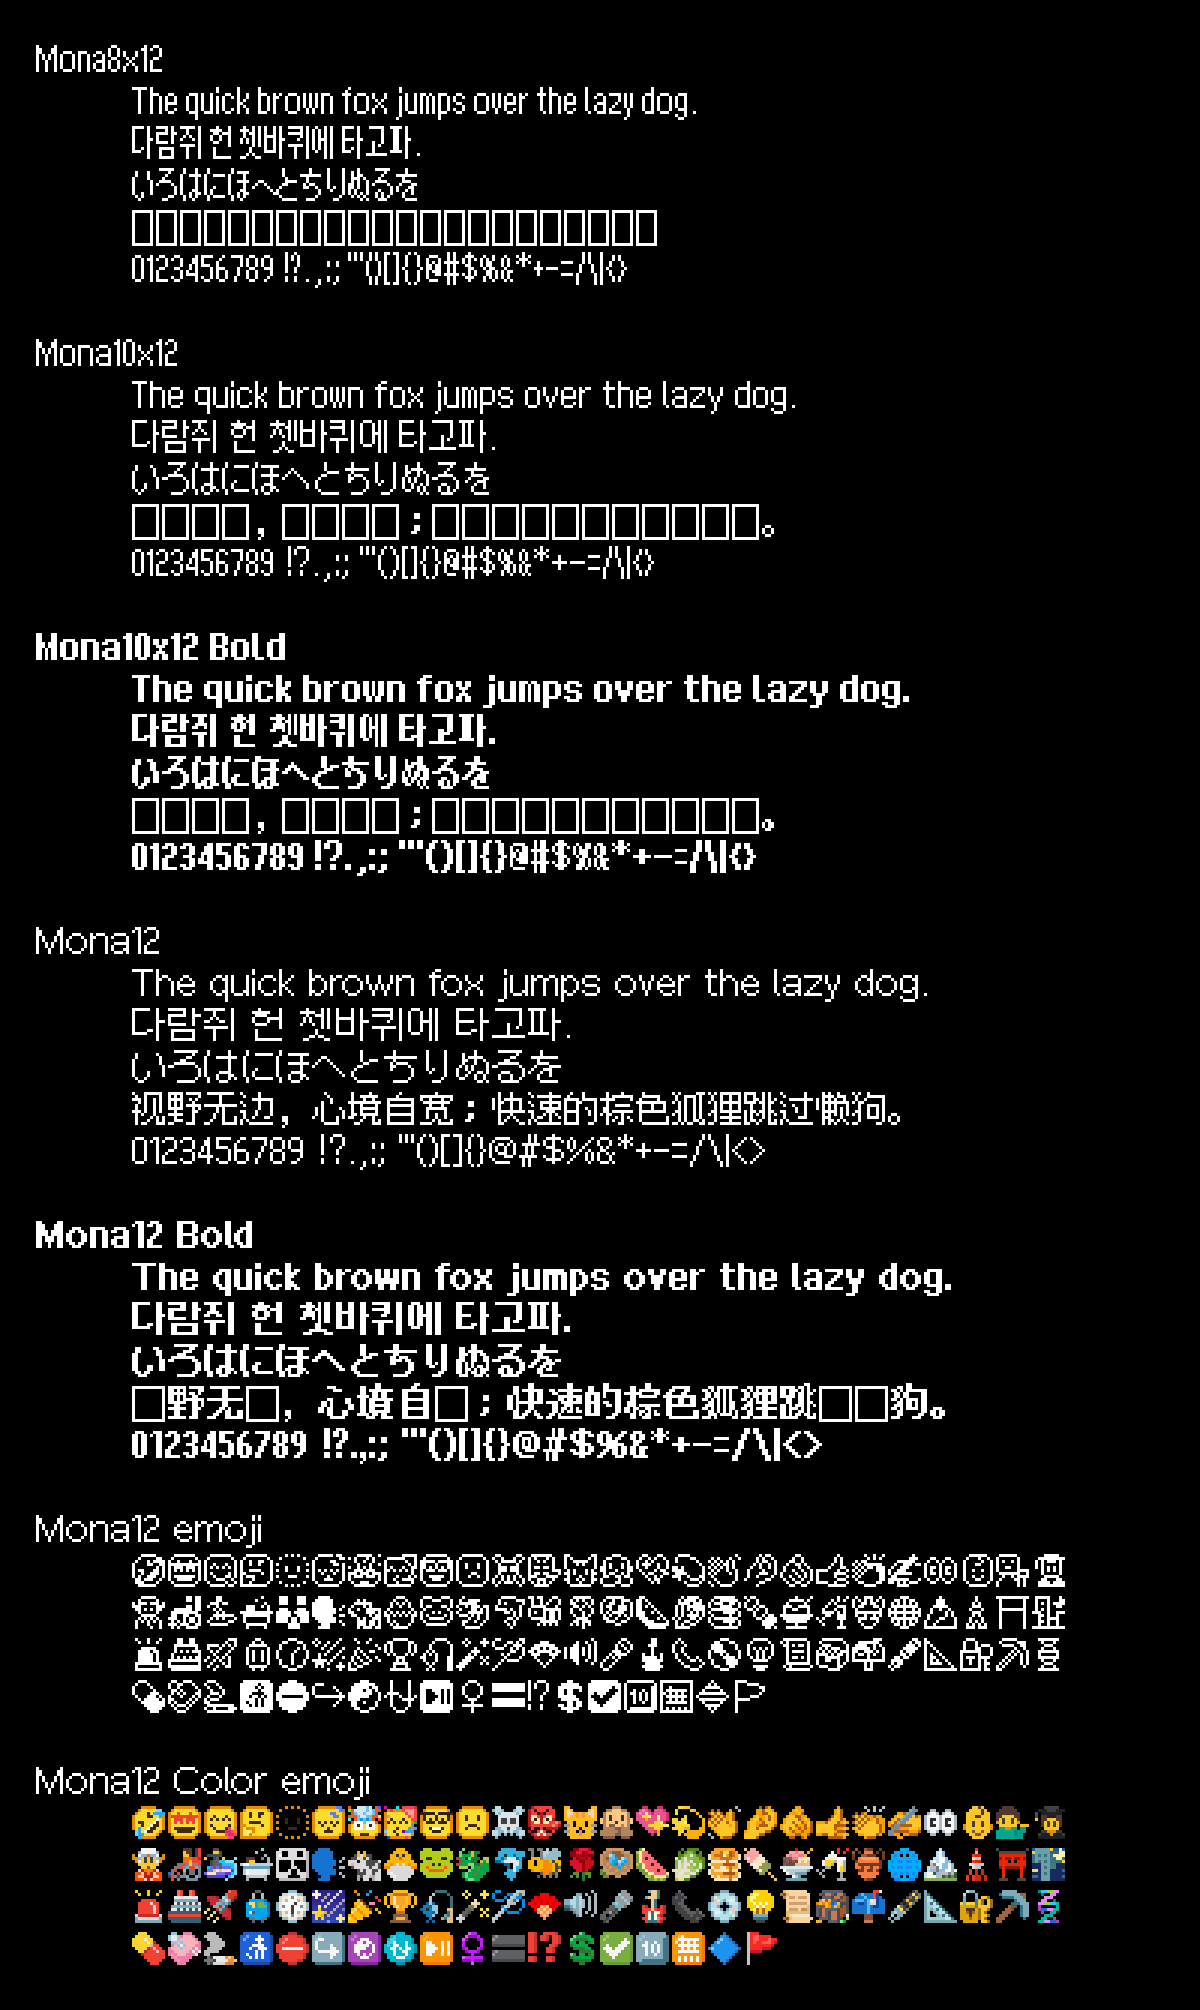
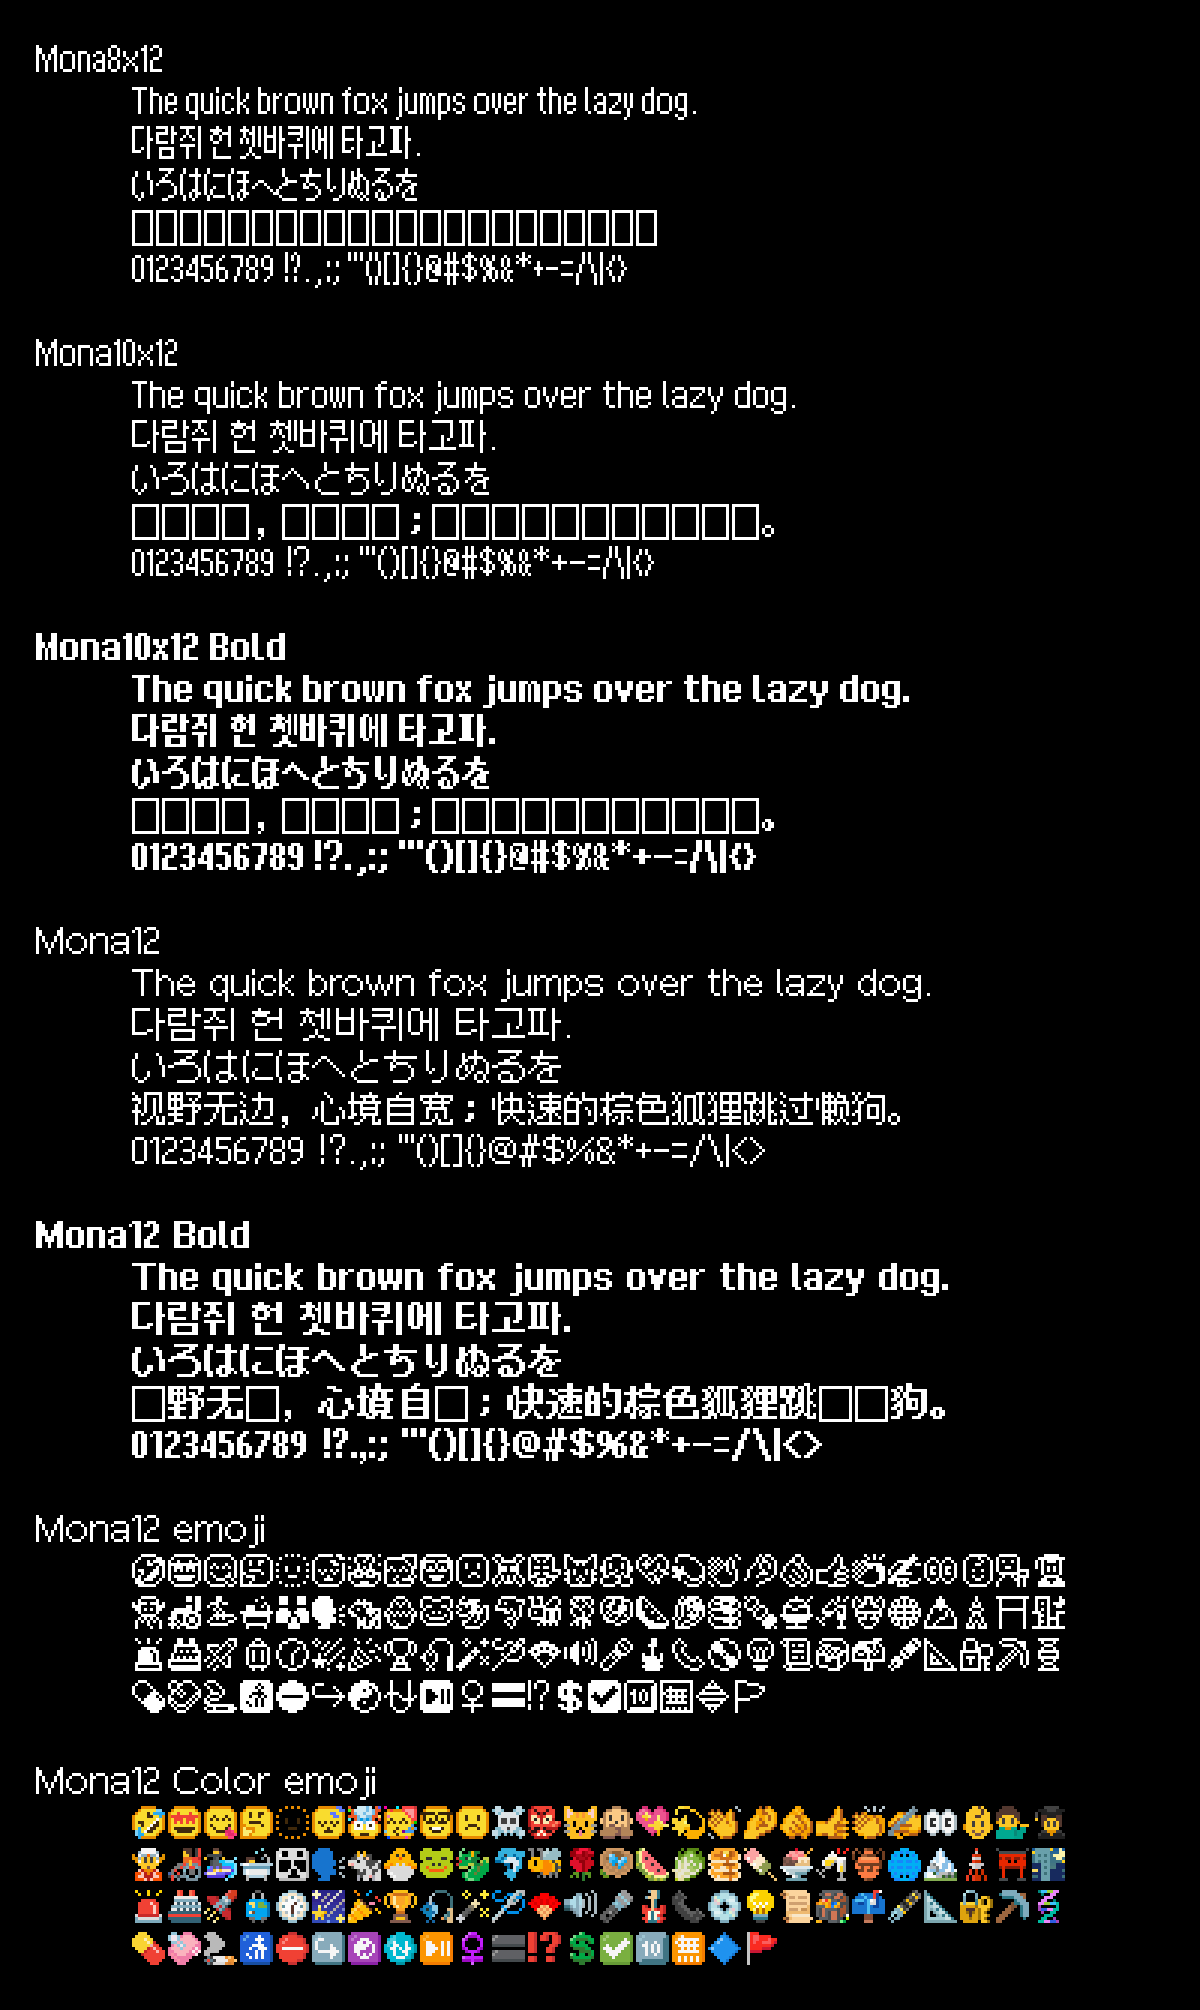
update

diff --git a/docs/GLYPHS.md b/docs/GLYPHS.md
@@ -2,20 +2,20 @@
 ### Summary
 | Font Name | Total Glyphs |
 | :--- | :---: |
-| **[Mona10 Regular](#mona10-regular)** | 21,603 |
-| **[Mona10 Bold](#mona10-bold)** | 21,603 |
-| **[Mona8x12 Regular](#mona8x12-regular)** | 13,142 |
-| **[Mona10x12 Regular](#mona10x12-regular)** | 15,243 |
-| **[Mona10x12 Bold](#mona10x12-bold)** | 15,243 |
-| **[Mona12 Regular](#mona12-regular)** | 39,343 |
-| **[Mona12 Bold](#mona12-bold)** | 21,650 |
+| **[Mona10 Regular](#mona10-regular)** | 21,604 |
+| **[Mona10 Bold](#mona10-bold)** | 21,604 |
+| **[Mona8x12 Regular](#mona8x12-regular)** | 13,143 |
+| **[Mona10x12 Regular](#mona10x12-regular)** | 15,244 |
+| **[Mona10x12 Bold](#mona10x12-bold)** | 15,244 |
+| **[Mona12 Regular](#mona12-regular)** | 39,803 |
+| **[Mona12 Bold](#mona12-bold)** | 21,651 |
 
 ---
 
 <a id='mona10-regular'></a>
 ## Mona10 Regular
 **File:** `Mona10.ttf`  
-**Total Glyphs:** `21,603`  
+**Total Glyphs:** `21,604`  
 
 | Block Name | Range | Count | Coverage | Progress |
 | :--- | :--- | :---: | :---: | :--- |
@@ -33,7 +33,7 @@
 | **Latin Extended Additional** | `U+1E00-U+1EFF` | 6 / 256 | **2.3%** | `░░░░░░░░░░` |
 | **General Punctuation** | `U+2000-U+206F` | 72 / 111 | **64.9%** | `██████░░░░` |
 | **Superscripts and Subscripts** | `U+2070-U+209F` | 42 / 42 | **100.0%** | `██████████` |
-| **Currency Symbols** | `U+20A0-U+20CF` | 34 / 33 | **100.0%** | `██████████` |
+| **Currency Symbols** | `U+20A0-U+20CF` | 34 / 34 | **100.0%** | `██████████` |
 | **Letterlike Symbols** | `U+2100-U+214F` | 10 / 80 | **12.5%** | `█░░░░░░░░░` |
 | **Number Forms** | `U+2150-U+218F` | 60 / 60 | **100.0%** | `██████████` |
 | **Arrows** | `U+2190-U+21FF` | 112 / 112 | **100.0%** | `██████████` |
@@ -57,6 +57,7 @@
 | **Hangul Jamo Extended-A** | `U+A960-U+A97F` | 29 / 29 | **100.0%** | `██████████` |
 | **Hangul Syllables** | `U+AC00-U+D7AF` | 11172 / 11172 | **100.0%** | `██████████` |
 | **Hangul Jamo Extended-B** | `U+D7B0-U+D7FF` | 72 / 72 | **100.0%** | `██████████` |
+| **Private Use Area** | `U+E000-U+F8FF` | 1 / 6400 | **0.0%** | `░░░░░░░░░░` |
 | **Alphabetic Presentation Forms** | `U+FB00-U+FB4F` | 5 / 58 | **8.6%** | `░░░░░░░░░░` |
 | **Vertical Forms** | `U+FE10-U+FE1F` | 10 / 10 | **100.0%** | `██████████` |
 | **CJK Compatibility Forms** | `U+FE30-U+FE4F` | 32 / 32 | **100.0%** | `██████████` |
@@ -69,7 +70,7 @@
 <a id='mona10-bold'></a>
 ## Mona10 Bold
 **File:** `Mona10-Bold.ttf`  
-**Total Glyphs:** `21,603`  
+**Total Glyphs:** `21,604`  
 
 | Block Name | Range | Count | Coverage | Progress |
 | :--- | :--- | :---: | :---: | :--- |
@@ -87,7 +88,7 @@
 | **Latin Extended Additional** | `U+1E00-U+1EFF` | 6 / 256 | **2.3%** | `░░░░░░░░░░` |
 | **General Punctuation** | `U+2000-U+206F` | 72 / 111 | **64.9%** | `██████░░░░` |
 | **Superscripts and Subscripts** | `U+2070-U+209F` | 42 / 42 | **100.0%** | `██████████` |
-| **Currency Symbols** | `U+20A0-U+20CF` | 34 / 33 | **100.0%** | `██████████` |
+| **Currency Symbols** | `U+20A0-U+20CF` | 34 / 34 | **100.0%** | `██████████` |
 | **Letterlike Symbols** | `U+2100-U+214F` | 10 / 80 | **12.5%** | `█░░░░░░░░░` |
 | **Number Forms** | `U+2150-U+218F` | 60 / 60 | **100.0%** | `██████████` |
 | **Arrows** | `U+2190-U+21FF` | 112 / 112 | **100.0%** | `██████████` |
@@ -111,6 +112,7 @@
 | **Hangul Jamo Extended-A** | `U+A960-U+A97F` | 29 / 29 | **100.0%** | `██████████` |
 | **Hangul Syllables** | `U+AC00-U+D7AF` | 11172 / 11172 | **100.0%** | `██████████` |
 | **Hangul Jamo Extended-B** | `U+D7B0-U+D7FF` | 72 / 72 | **100.0%** | `██████████` |
+| **Private Use Area** | `U+E000-U+F8FF` | 1 / 6400 | **0.0%** | `░░░░░░░░░░` |
 | **Alphabetic Presentation Forms** | `U+FB00-U+FB4F` | 5 / 58 | **8.6%** | `░░░░░░░░░░` |
 | **Vertical Forms** | `U+FE10-U+FE1F` | 10 / 10 | **100.0%** | `██████████` |
 | **CJK Compatibility Forms** | `U+FE30-U+FE4F` | 32 / 32 | **100.0%** | `██████████` |
@@ -123,7 +125,7 @@
 <a id='mona8x12-regular'></a>
 ## Mona8x12 Regular
 **File:** `Mona8x12.ttf`  
-**Total Glyphs:** `13,142`  
+**Total Glyphs:** `13,143`  
 
 | Block Name | Range | Count | Coverage | Progress |
 | :--- | :--- | :---: | :---: | :--- |
@@ -139,7 +141,7 @@
 | **Latin Extended Additional** | `U+1E00-U+1EFF` | 6 / 256 | **2.3%** | `░░░░░░░░░░` |
 | **General Punctuation** | `U+2000-U+206F` | 72 / 111 | **64.9%** | `██████░░░░` |
 | **Superscripts and Subscripts** | `U+2070-U+209F` | 42 / 42 | **100.0%** | `██████████` |
-| **Currency Symbols** | `U+20A0-U+20CF` | 34 / 33 | **100.0%** | `██████████` |
+| **Currency Symbols** | `U+20A0-U+20CF` | 34 / 34 | **100.0%** | `██████████` |
 | **Letterlike Symbols** | `U+2100-U+214F` | 10 / 80 | **12.5%** | `█░░░░░░░░░` |
 | **Number Forms** | `U+2150-U+218F` | 60 / 60 | **100.0%** | `██████████` |
 | **Braille Patterns** | `U+2800-U+28FF` | 256 / 256 | **100.0%** | `██████████` |
@@ -149,13 +151,14 @@
 | **Hangul Jamo Extended-A** | `U+A960-U+A97F` | 29 / 29 | **100.0%** | `██████████` |
 | **Hangul Syllables** | `U+AC00-U+D7AF` | 11172 / 11172 | **100.0%** | `██████████` |
 | **Hangul Jamo Extended-B** | `U+D7B0-U+D7FF` | 72 / 72 | **100.0%** | `██████████` |
+| **Private Use Area** | `U+E000-U+F8FF` | 1 / 6400 | **0.0%** | `░░░░░░░░░░` |
 
 ---
 
 <a id='mona10x12-regular'></a>
 ## Mona10x12 Regular
 **File:** `Mona10x12.ttf`  
-**Total Glyphs:** `15,243`  
+**Total Glyphs:** `15,244`  
 
 | Block Name | Range | Count | Coverage | Progress |
 | :--- | :--- | :---: | :---: | :--- |
@@ -173,7 +176,7 @@
 | **Latin Extended Additional** | `U+1E00-U+1EFF` | 6 / 256 | **2.3%** | `░░░░░░░░░░` |
 | **General Punctuation** | `U+2000-U+206F` | 72 / 111 | **64.9%** | `██████░░░░` |
 | **Superscripts and Subscripts** | `U+2070-U+209F` | 42 / 42 | **100.0%** | `██████████` |
-| **Currency Symbols** | `U+20A0-U+20CF` | 34 / 33 | **100.0%** | `██████████` |
+| **Currency Symbols** | `U+20A0-U+20CF` | 34 / 34 | **100.0%** | `██████████` |
 | **Letterlike Symbols** | `U+2100-U+214F` | 10 / 80 | **12.5%** | `█░░░░░░░░░` |
 | **Number Forms** | `U+2150-U+218F` | 60 / 60 | **100.0%** | `██████████` |
 | **Arrows** | `U+2190-U+21FF` | 112 / 112 | **100.0%** | `██████████` |
@@ -196,6 +199,7 @@
 | **Hangul Jamo Extended-A** | `U+A960-U+A97F` | 29 / 29 | **100.0%** | `██████████` |
 | **Hangul Syllables** | `U+AC00-U+D7AF` | 11172 / 11172 | **100.0%** | `██████████` |
 | **Hangul Jamo Extended-B** | `U+D7B0-U+D7FF` | 72 / 72 | **100.0%** | `██████████` |
+| **Private Use Area** | `U+E000-U+F8FF` | 1 / 6400 | **0.0%** | `░░░░░░░░░░` |
 | **Alphabetic Presentation Forms** | `U+FB00-U+FB4F` | 5 / 58 | **8.6%** | `░░░░░░░░░░` |
 | **Vertical Forms** | `U+FE10-U+FE1F` | 10 / 10 | **100.0%** | `██████████` |
 | **CJK Compatibility Forms** | `U+FE30-U+FE4F` | 32 / 32 | **100.0%** | `██████████` |
@@ -208,7 +212,7 @@
 <a id='mona10x12-bold'></a>
 ## Mona10x12 Bold
 **File:** `Mona10x12-Bold.ttf`  
-**Total Glyphs:** `15,243`  
+**Total Glyphs:** `15,244`  
 
 | Block Name | Range | Count | Coverage | Progress |
 | :--- | :--- | :---: | :---: | :--- |
@@ -226,7 +230,7 @@
 | **Latin Extended Additional** | `U+1E00-U+1EFF` | 6 / 256 | **2.3%** | `░░░░░░░░░░` |
 | **General Punctuation** | `U+2000-U+206F` | 72 / 111 | **64.9%** | `██████░░░░` |
 | **Superscripts and Subscripts** | `U+2070-U+209F` | 42 / 42 | **100.0%** | `██████████` |
-| **Currency Symbols** | `U+20A0-U+20CF` | 34 / 33 | **100.0%** | `██████████` |
+| **Currency Symbols** | `U+20A0-U+20CF` | 34 / 34 | **100.0%** | `██████████` |
 | **Letterlike Symbols** | `U+2100-U+214F` | 10 / 80 | **12.5%** | `█░░░░░░░░░` |
 | **Number Forms** | `U+2150-U+218F` | 60 / 60 | **100.0%** | `██████████` |
 | **Arrows** | `U+2190-U+21FF` | 112 / 112 | **100.0%** | `██████████` |
@@ -249,6 +253,7 @@
 | **Hangul Jamo Extended-A** | `U+A960-U+A97F` | 29 / 29 | **100.0%** | `██████████` |
 | **Hangul Syllables** | `U+AC00-U+D7AF` | 11172 / 11172 | **100.0%** | `██████████` |
 | **Hangul Jamo Extended-B** | `U+D7B0-U+D7FF` | 72 / 72 | **100.0%** | `██████████` |
+| **Private Use Area** | `U+E000-U+F8FF` | 1 / 6400 | **0.0%** | `░░░░░░░░░░` |
 | **Alphabetic Presentation Forms** | `U+FB00-U+FB4F` | 5 / 58 | **8.6%** | `░░░░░░░░░░` |
 | **Vertical Forms** | `U+FE10-U+FE1F` | 10 / 10 | **100.0%** | `██████████` |
 | **CJK Compatibility Forms** | `U+FE30-U+FE4F` | 32 / 32 | **100.0%** | `██████████` |
@@ -261,7 +266,7 @@
 <a id='mona12-regular'></a>
 ## Mona12 Regular
 **File:** `Mona12.ttf`  
-**Total Glyphs:** `39,343`  
+**Total Glyphs:** `39,803`  
 
 | Block Name | Range | Count | Coverage | Progress |
 | :--- | :--- | :---: | :---: | :--- |
@@ -279,7 +284,7 @@
 | **Latin Extended Additional** | `U+1E00-U+1EFF` | 6 / 256 | **2.3%** | `░░░░░░░░░░` |
 | **General Punctuation** | `U+2000-U+206F` | 72 / 111 | **64.9%** | `██████░░░░` |
 | **Superscripts and Subscripts** | `U+2070-U+209F` | 42 / 42 | **100.0%** | `██████████` |
-| **Currency Symbols** | `U+20A0-U+20CF` | 34 / 33 | **100.0%** | `██████████` |
+| **Currency Symbols** | `U+20A0-U+20CF` | 34 / 34 | **100.0%** | `██████████` |
 | **Combining Diacritical Marks for Symbols** | `U+20D0-U+20FF` | 6 / 33 | **18.2%** | `█░░░░░░░░░` |
 | **Letterlike Symbols** | `U+2100-U+214F` | 10 / 80 | **12.5%** | `█░░░░░░░░░` |
 | **Number Forms** | `U+2150-U+218F` | 60 / 60 | **100.0%** | `██████████` |
@@ -295,7 +300,7 @@
 | **Supplemental Arrows-A** | `U+27F0-U+27FF` | 16 / 16 | **100.0%** | `██████████` |
 | **Braille Patterns** | `U+2800-U+28FF` | 256 / 256 | **100.0%** | `██████████` |
 | **Supplemental Arrows-B** | `U+2900-U+297F` | 128 / 128 | **100.0%** | `██████████` |
-| **Miscellaneous Symbols and Arrows** | `U+2B00-U+2BFF` | 254 / 253 | **100.0%** | `██████████` |
+| **Miscellaneous Symbols and Arrows** | `U+2B00-U+2BFF` | 254 / 254 | **100.0%** | `██████████` |
 | **Supplemental Punctuation** | `U+2E00-U+2E7F` | 2 / 94 | **2.1%** | `░░░░░░░░░░` |
 | **Ideographic Description Characters** | `U+2FF0-U+2FFF` | 16 / 16 | **100.0%** | `██████████` |
 | **CJK Symbols and Punctuation** | `U+3000-U+303F` | 35 / 64 | **54.7%** | `█████░░░░░` |
@@ -305,9 +310,9 @@
 | **CJK Strokes** | `U+31C0-U+31EF` | 1 / 39 | **2.6%** | `░░░░░░░░░░` |
 | **Enclosed CJK Letters and Months** | `U+3200-U+32FF` | 255 / 255 | **100.0%** | `██████████` |
 | **CJK Compatibility** | `U+3300-U+33FF` | 46 / 256 | **18.0%** | `█░░░░░░░░░` |
-| **CJK Unified Ideographs Extension A** | `U+3400-U+4DBF` | 1271 / 6592 | **19.3%** | `█░░░░░░░░░` |
+| **CJK Unified Ideographs Extension A** | `U+3400-U+4DBF` | 1480 / 6592 | **22.5%** | `██░░░░░░░░` |
 | **Yijing Hexagram Symbols** | `U+4DC0-U+4DFF` | 64 / 64 | **100.0%** | `██████████` |
-| **CJK Unified Ideographs** | `U+4E00-U+9FFF` | 18915 / 20992 | **90.1%** | `█████████░` |
+| **CJK Unified Ideographs** | `U+4E00-U+9FFF` | 18972 / 20992 | **90.4%** | `█████████░` |
 | **Hangul Jamo Extended-A** | `U+A960-U+A97F` | 29 / 29 | **100.0%** | `██████████` |
 | **Hangul Syllables** | `U+AC00-U+D7AF` | 11172 / 11172 | **100.0%** | `██████████` |
 | **Hangul Jamo Extended-B** | `U+D7B0-U+D7FF` | 72 / 72 | **100.0%** | `██████████` |
@@ -327,16 +332,16 @@
 | **Enclosed Ideographic Supplement** | `U+1F200-U+1F2FF` | 15 / 64 | **23.4%** | `██░░░░░░░░` |
 | **Miscellaneous Symbols and Pictographs** | `U+1F300-U+1F5FF` | 768 / 768 | **100.0%** | `██████████` |
 | **Emoticons** | `U+1F600-U+1F64F` | 80 / 80 | **100.0%** | `██████████` |
-| **Transport and Map Symbols** | `U+1F680-U+1F6FF` | 119 / 118 | **100.0%** | `██████████` |
+| **Transport and Map Symbols** | `U+1F680-U+1F6FF` | 119 / 119 | **100.0%** | `██████████` |
 | **Geometric Shapes Extended** | `U+1F780-U+1F7FF` | 17 / 103 | **16.5%** | `█░░░░░░░░░` |
-| **Supplemental Arrows-C** | `U+1F800-U+1F8FF` | 171 / 162 | **100.0%** | `██████████` |
+| **Supplemental Arrows-C** | `U+1F800-U+1F8FF` | 171 / 171 | **100.0%** | `██████████` |
 | **Supplemental Symbols and Pictographs** | `U+1F900-U+1F9FF` | 256 / 256 | **100.0%** | `██████████` |
-| **Symbols and Pictographs Extended-A** | `U+1FA70-U+1FAFF` | 120 / 114 | **100.0%** | `██████████` |
-| **Symbols for Legacy Computing** | `U+1FB00-U+1FBFF` | 250 / 249 | **100.0%** | `██████████` |
-| **CJK Unified Ideographs Extension B** | `U+20000-U+2A6DF` | 966 / 42720 | **2.3%** | `░░░░░░░░░░` |
-| **CJK Unified Ideographs Extension C** | `U+2A700-U+2B73F` | 32 / 4154 | **0.8%** | `░░░░░░░░░░` |
-| **CJK Unified Ideographs Extension D** | `U+2B740-U+2B81F` | 9 / 222 | **4.1%** | `░░░░░░░░░░` |
-| **CJK Unified Ideographs Extension E** | `U+2B820-U+2CEAF` | 31 / 5762 | **0.5%** | `░░░░░░░░░░` |
+| **Symbols and Pictographs Extended-A** | `U+1FA70-U+1FAFF` | 120 / 120 | **100.0%** | `██████████` |
+| **Symbols for Legacy Computing** | `U+1FB00-U+1FBFF` | 250 / 250 | **100.0%** | `██████████` |
+| **CJK Unified Ideographs Extension B** | `U+20000-U+2A6DF` | 1146 / 42720 | **2.7%** | `░░░░░░░░░░` |
+| **CJK Unified Ideographs Extension C** | `U+2A700-U+2B73F` | 36 / 4160 | **0.9%** | `░░░░░░░░░░` |
+| **CJK Unified Ideographs Extension D** | `U+2B740-U+2B81F` | 11 / 222 | **5.0%** | `░░░░░░░░░░` |
+| **CJK Unified Ideographs Extension E** | `U+2B820-U+2CEAF` | 39 / 5774 | **0.7%** | `░░░░░░░░░░` |
 | **CJK Unified Ideographs Extension F** | `U+2CEB0-U+2EBEF` | 4 / 7473 | **0.1%** | `░░░░░░░░░░` |
 | **CJK Unified Ideographs Extension G** | `U+30000-U+3134F` | 6 / 4939 | **0.1%** | `░░░░░░░░░░` |
 | **Tags** | `U+E0000-U+E007F` | 10 / 97 | **10.3%** | `█░░░░░░░░░` |
@@ -347,7 +352,7 @@
 <a id='mona12-bold'></a>
 ## Mona12 Bold
 **File:** `Mona12-Bold.ttf`  
-**Total Glyphs:** `21,650`  
+**Total Glyphs:** `21,651`  
 
 | Block Name | Range | Count | Coverage | Progress |
 | :--- | :--- | :---: | :---: | :--- |
@@ -365,7 +370,7 @@
 | **Latin Extended Additional** | `U+1E00-U+1EFF` | 6 / 256 | **2.3%** | `░░░░░░░░░░` |
 | **General Punctuation** | `U+2000-U+206F` | 72 / 111 | **64.9%** | `██████░░░░` |
 | **Superscripts and Subscripts** | `U+2070-U+209F` | 42 / 42 | **100.0%** | `██████████` |
-| **Currency Symbols** | `U+20A0-U+20CF` | 34 / 33 | **100.0%** | `██████████` |
+| **Currency Symbols** | `U+20A0-U+20CF` | 34 / 34 | **100.0%** | `██████████` |
 | **Combining Diacritical Marks for Symbols** | `U+20D0-U+20FF` | 5 / 33 | **15.2%** | `█░░░░░░░░░` |
 | **Letterlike Symbols** | `U+2100-U+214F` | 10 / 80 | **12.5%** | `█░░░░░░░░░` |
 | **Number Forms** | `U+2150-U+218F` | 60 / 60 | **100.0%** | `██████████` |
@@ -390,6 +395,7 @@
 | **Hangul Jamo Extended-A** | `U+A960-U+A97F` | 29 / 29 | **100.0%** | `██████████` |
 | **Hangul Syllables** | `U+AC00-U+D7AF` | 11172 / 11172 | **100.0%** | `██████████` |
 | **Hangul Jamo Extended-B** | `U+D7B0-U+D7FF` | 72 / 72 | **100.0%** | `██████████` |
+| **Private Use Area** | `U+E000-U+F8FF` | 1 / 6400 | **0.0%** | `░░░░░░░░░░` |
 | **Alphabetic Presentation Forms** | `U+FB00-U+FB4F` | 5 / 58 | **8.6%** | `░░░░░░░░░░` |
 | **Vertical Forms** | `U+FE10-U+FE1F` | 10 / 10 | **100.0%** | `██████████` |
 | **CJK Compatibility Forms** | `U+FE30-U+FE4F` | 32 / 32 | **100.0%** | `██████████` |